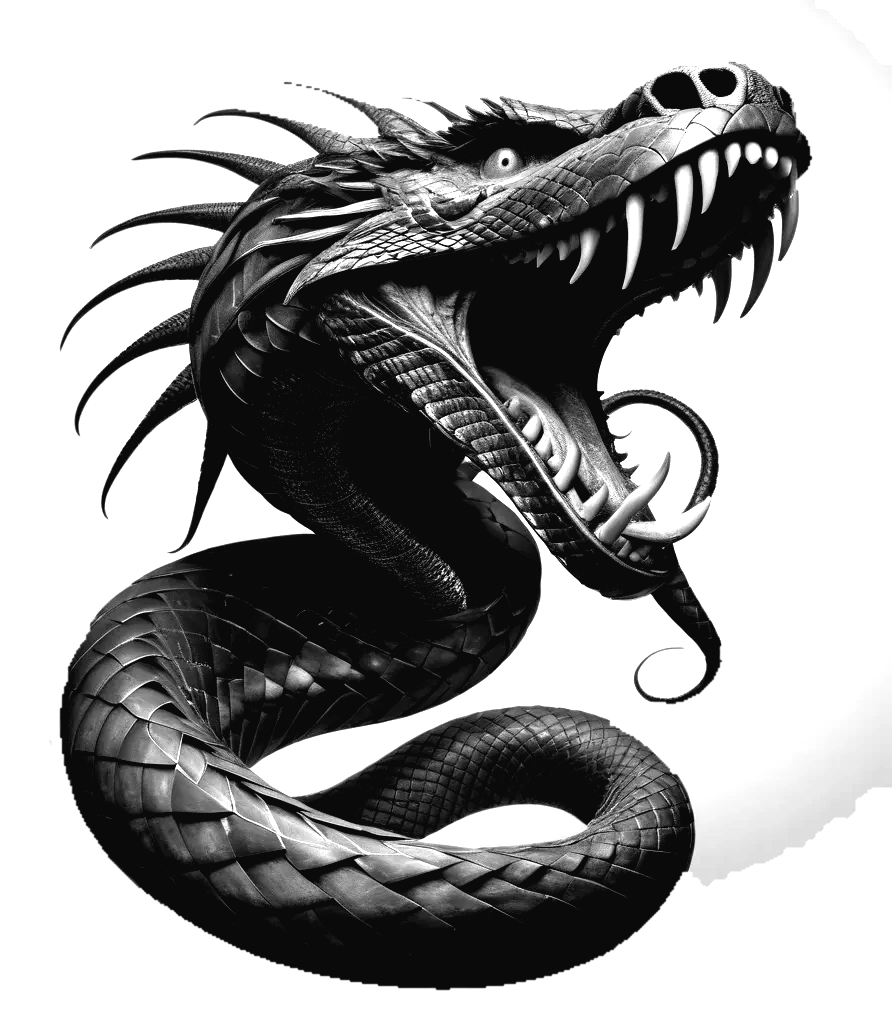
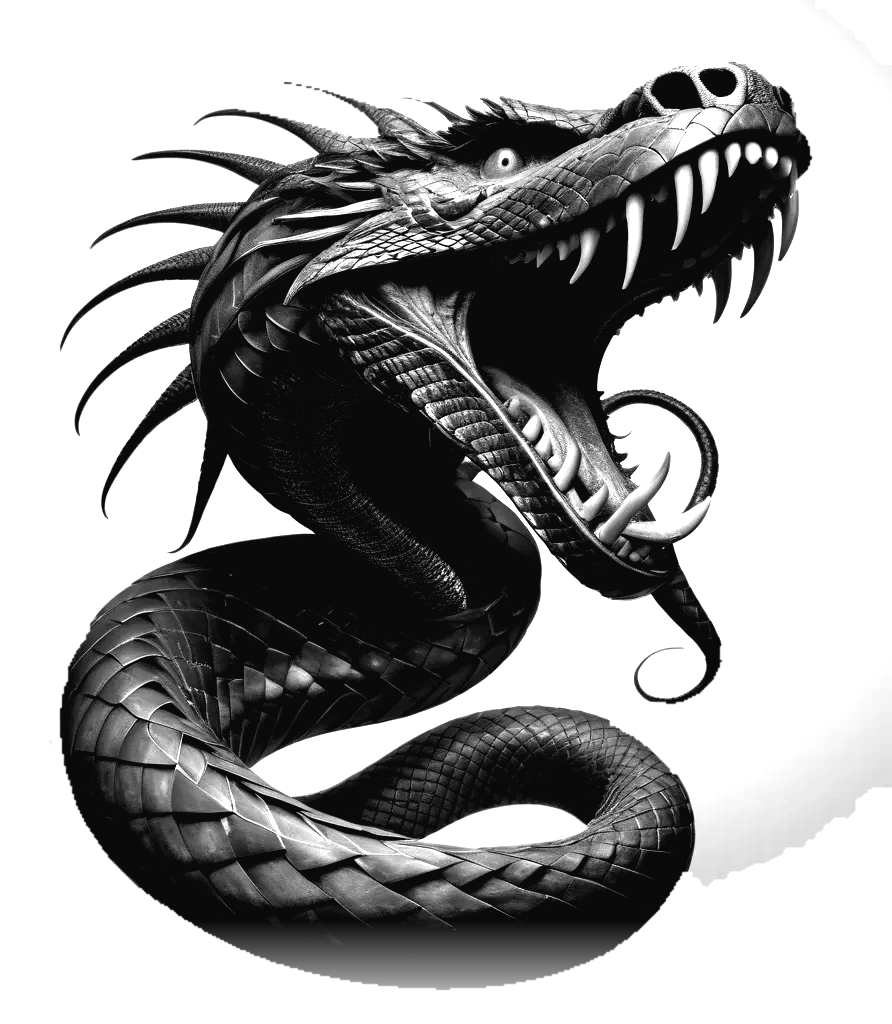
Tutu: example snake continues onto the right arm, portraits with glowing eyes (2 variants)
Claude-Session: https://claude.ai/code/session_01SVnjTQfE8Du7CnCgFi8Pj9

Changed region(s): [[0.2422, 0.9062, 0.7265, 0.9688]]

diff --git a/tutu/web/src/main.ts b/tutu/web/src/main.ts
@@ -959,7 +959,10 @@ async function openState(state: ProjectState, name: string) {
 }
 
 /** Ready-made example projects shipped next to the page (browser build). */
-const EXAMPLES = [{ id: "snake-portrait", name: "Приклад: змія спереду + портрет на спині" }];
+const EXAMPLES = [
+  { id: "snake-portrait", name: "Приклад: змія спереду + портрет на спині" },
+  { id: "snake-portrait-2", name: "Приклад: змія + портрет (варіант 2)" },
+];
 async function openExample(id: string) {
   const r = await fetch(new URL(`./examples/${id}.json`, document.baseURI).href);
   if (!r.ok) throw new Error("Приклад не знайдено");
